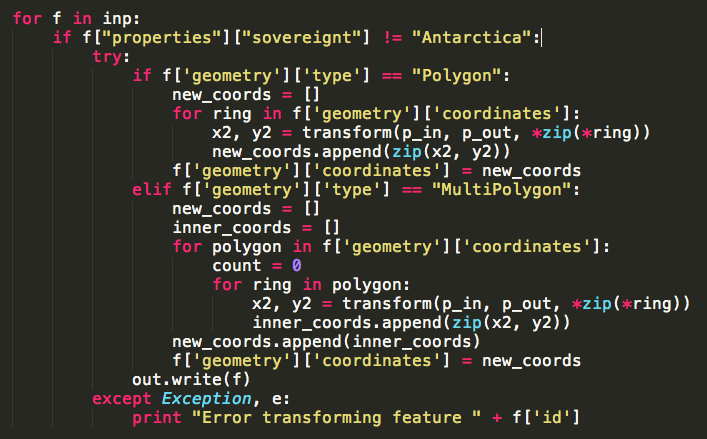
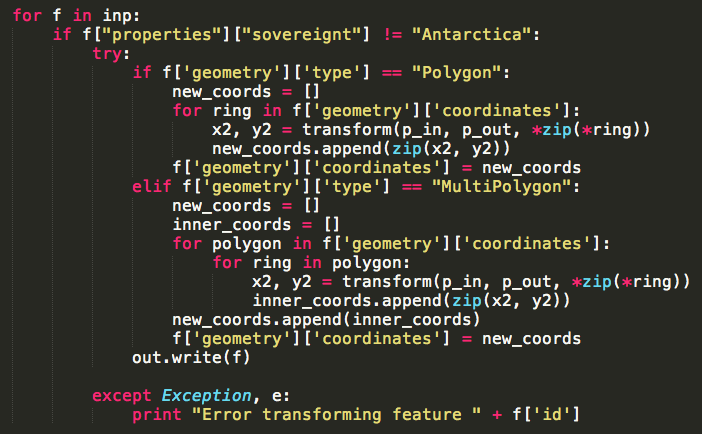
various fixups

Changed region(s): [[0.1197, 0.1498, 0.9872, 0.9885], [0.0, 0.0, 0.7778, 0.1498]]

diff --git a/index.html b/index.html
@@ -106,27 +106,27 @@
     <div><a href="http://pdxmele.com/python-geodata-bffs">python + geographic data = BFFs</a><br/>Mele Sax-Barnett</div>
     <div><img src="http://www.fantom-xp.com/wallpapers/15/Cat_and_dog_friends.jpg"><em>why?</em><br/><br/></div>
     <div><img src="img/map1.png">I <code>&lt;3</code> maps, but making them can be a pain</div>
-    <div>the <strong>worst</strong> part is</div>
+    <div>the <code>worst</code> part is</div>
     <div><img src="http://31.media.tumblr.com/tumblr_m4y26nYH2N1rwnp75o1_500.gif"><em>getting data to cooperate</em></div>
-    <div>it is usually <em>not</em> in the format you need</div>
+    <div><img src="img/formats.png">it is usually <code>not</code> in the <a href="http://www.gdal.org/ogr/ogr_formats.html">format</a> you need</div>
     <div><img src="https://pbs.twimg.com/profile_images/1340224844/Picture_11.png">has several <code>obvious errors</code></div>
-    <div>is split up into <em>50 different files</em></div>
+    <div><img src="http://theplayunderground.com/images/Folder%20Stack.jpg">is split up into <code>50</code> different files</div>
     <div><img src="http://www.cartogrammar.com/images/azimuthal.jpg">is in a <code>completely different projection</code> than what you need</div>
-    <div><em>AND</em> has no metadata, so you have <code>no idea</code> what you're even looking at</div>
+    <div><img src="img/noideadog.jpg"><strong>AND</strong> has no <a href="https://www.fgdc.gov/metadata">metadata</a>, so you have <code>no idea</code> what you're even looking at</div>
     <div>you could point and click all day in GIS software, <em>or you could use python</em></div>
 
-    <!-- Section 1: python modules -->
+    <!-- Section 1: python libraries -->
     <!-- Fiona -->
-    <div><a href="https://pypi.python.org/pypi/Fiona">fiona</a><br/>convert and filter your data</div>
+    <div><strong>libraries:</strong><br/><a href="https://pypi.python.org/pypi/Fiona">fiona</a><br/>convert and filter your data</div>
     <div><strong>example:</strong><br/> converting <a href="http://www.naturalearthdata.com/">Natural Earth</a> shapefile data to GeoJSON</div>
-    <div><img src="img/fiona1.png">1. download <a href="http://www.naturalearthdata.com/downloads/110m-cultural-vectors/">some data</a><br/>2. <img src="img/fionacode1.png"></div>
+    <div>1. download <a href="http://www.naturalearthdata.com/downloads/110m-cultural-vectors/">some data</a><br/>2. <img src="img/fionacode1.png"></div>
     <div><img src="img/fiona1.png">3. enjoy!<br/><br/><br/></div>
     <div>combine fiona with <a href="https://pypi.python.org/pypi/pyproj">pyproj</a> to change the projection</div>
-    <div><img src="img/proj.png">1. <img src="img/proj1code.png"></div>
-    <div><img src="img/proj.png">2. <img src="img/proj2code.png"></div>
+    <div>1. <img src="img/proj1code.png"></div>
+    <div>2. <img src="img/proj2code.png"></div>
     <div><img src="img/proj.png">3. enjoy!<br/><br/></div>
     <div><strong>example:</strong><br/> assembling a bunch of GPX tracks into a single GeoJSON file</div>
-    <div><img src="img/fiona2.png">1. export all the GPX data from your favorite tracker<br/>2. <img src="img/fionacode2-3.png"></div>
+    <div>1. export all the GPX data from your favorite tracker<br/>2. <img src="img/fionacode2.png"></div>
     <div><img src="img/fiona2.png">3. enjoy!<br/><br/><br/><br/></div>
 
     <!-- Shapely -->
@@ -144,13 +144,14 @@
     <div>3. process</br><img src="img/geojsoncode1.png"><br/></div>
     <div>...<img src="img/geojsoncode2.png"></div>
     <div><img src="img/osm_done.png">4. <code>enjoy!</code></div>
+    <div>repeat with csv/xml data too: just put it in a dictionary and  assemble valid GeoJSON with <em>only the features and attributes that you want</em>. if you have a lot of data, switch to <a href="...">reading and writing line-by-line</a>.</div>
     <div>because it's just a dictionary, you can also <code>create tests</code> for the data:<br/>* check for <em>required keys</em><br/>* check <em>the type</em> of each key's value<br/>* check <em>the structure</em><br/>* check for <em>valid geometry</em></div>
     <div>this is important if your system expects <br/>a very particular format, while your data comes from <code>a variety of sources</code><br/><img src="img/ua_ss.png"></div>
 
     <!-- Section 3: Wrap it up -->
     <div>finally, GIS software <code>&lt;3</code>s python</div>
     <div><a href="http://resources.arcgis.com/en/communities/python/">ArcGIS</a><br/><img src="img/arcgis.png"><br/><a href="http://arcpy.wordpress.com/">arcpy</a> scripting and <a href="http://resources.arcgis.com/en/help/main/10.1/index.html#//014p00000025000000">add-ins</a></div>
-    <div><a href="http://www.qgis.org/en/docs/pyqgis_developer_cookbook/intro.html">QGIS</a><br/><img src="img/qgis.png"><br/>python console, module, and <a href="https://plugins.qgis.org/">plugins</a></div>
+    <div><a href="http://www.qgis.org/en/docs/pyqgis_developer_cookbook/intro.html">QGIS</a><br/><img src="img/qgis.png"><br/>console, module, <a href="https://plugins.qgis.org/">plugins</a>, and dev</div>
     <div><img src="img/qgisplugins1.png"></div>
     <div><img src="img/qgisplugins2.png"></div>
     <div><em>thank you!</em><br/><br/>questions? <a href="https://twitter.com/pdxmele">@pdxmele</a> or file an issue <a href="https://github.com/pdxmele/python-geodata-bffs">here</a></br>more resources <a href="https://github.com/pdxmele/python-geodata-bffs/blob/master/resources.md">here</a><br/>

diff --git a/code_examples/fiona_proj.py b/code_examples/fiona_proj.py
@@ -19,7 +19,6 @@ with fiona.open('ne_110m_admin_0_countries.shp', 'r') as inp:
         
         for f in inp:
             if f["properties"]["sovereignt"] != "Antarctica":
-            #if f["properties"]["sovereignt"] == "United States of America":
                 try:
                     if f['geometry']['type'] == "Polygon":
                         new_coords = []
@@ -31,12 +30,12 @@ with fiona.open('ne_110m_admin_0_countries.shp', 'r') as inp:
                         new_coords = []
                         inner_coords = []
                         for polygon in f['geometry']['coordinates']:
-                            count = 0
                             for ring in polygon:
                                 x2, y2 = transform(p_in, p_out, *zip(*ring))
                                 inner_coords.append(zip(x2, y2))
                         new_coords.append(inner_coords)
                         f['geometry']['coordinates'] = new_coords
                     out.write(f)
+                
                 except Exception, e:
                     print "Error transforming feature " + f['id']

diff --git a/code_examples/fiona_example2.py b/code_examples/fiona_example2.py
@@ -1,0 +1,30 @@
+import os
+import fiona
+
+
+ROOT_DIR = 'moves_export'
+EXAMPLE_FILE = 'moves_export/storylines_20131201_to_20131207.gpx'
+
+with fiona.open(EXAMPLE_FILE, 'r', layer='tracks') as example:
+    in_schema = example.schema
+    in_crs = example.crs
+
+with fiona.collection(
+        "tracks_output.geojson", "w",
+        crs=in_crs,
+        driver="GeoJSON",
+        schema=in_schema.copy()
+        ) as out:
+    for root, dirs, files in os.walk(ROOT_DIR):
+        for file in files:
+            file_str = ROOT_DIR + "/" + file
+            if file_str[-4:len(file_str)] == ".gpx":
+                with fiona.open(
+                        file_str, 
+                        'r', 
+                        layer='tracks'
+                        ) as inp:
+                    for feature in inp:
+                        print(feature)
+                        out.write(feature)
+

diff --git a/code_examples/fiona_example1.py b/code_examples/fiona_example1.py
@@ -1,0 +1,14 @@
+import fiona
+
+
+with fiona.open('ne_110m_admin_0_countries.shp', 'r') as inp:
+    output_schema = inp.schema.copy()
+    with fiona.collection(
+            "output.geojson", "w",
+            crs=inp.crs, 
+            driver="GeoJSON", 
+            schema=output_schema
+            ) as out:
+        for f in inp:
+            if f["properties"]["sovereignt"] != "Antarctica":
+                out.write(f)
